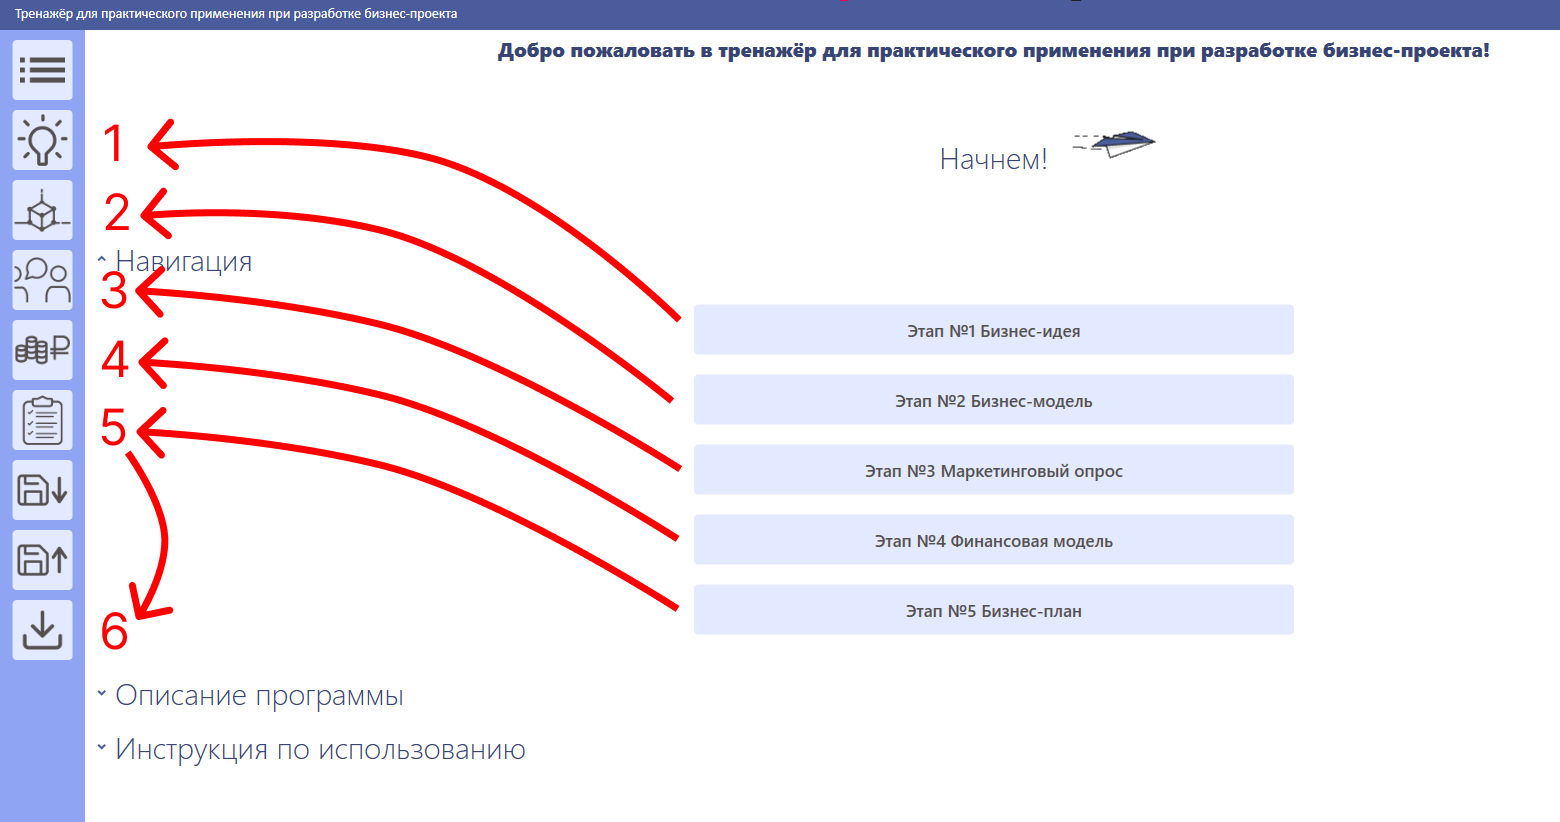
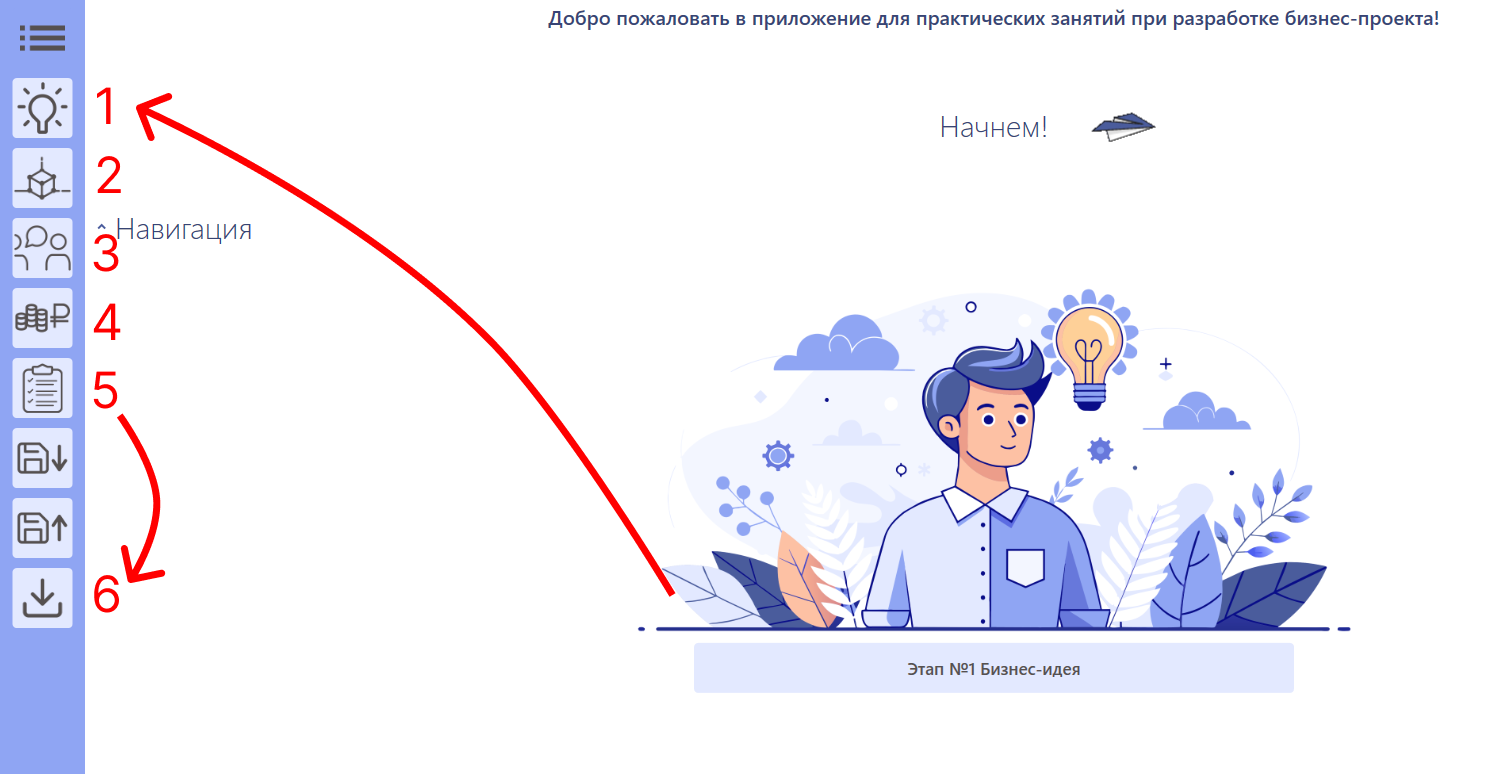
bye bye im leaving

diff --git a/Economy/Resources/Pages/Title.xaml b/Economy/Resources/Pages/Title.xaml
@@ -8,6 +8,7 @@
       xmlns:gif="http://wpfanimatedgif.codeplex.com"
       mc:Ignorable="d"
       Background="White"
+
       d:DesignWidth="800"
       d:Height="3000"
       Title="Title">
@@ -35,7 +36,7 @@
                        TextWrapping="Wrap"
                        TextAlignment="Center"
                        Text="Добро пожаловать в приложение для практических занятий при разработке бизнес-проекта!"
-                       FontWeight="ExtraBold"
+                       FontWeight="Medium"
                        HorizontalAlignment="Center"
                        Foreground="#FF374474">
             </TextBlock>
@@ -76,6 +77,9 @@
                                     Value="Light" />
                         </Style>
                     </StackPanel.Resources>
+                    <Image Source="/Resources/Images/robobro.png"  MaxWidth="800" RenderOptions.BitmapScalingMode="HighQuality"/>
+
+
                     <Button x:Name="ToChapter1"
                             Click="ToChapter1_Click"
                             Height="50"
@@ -92,6 +96,8 @@
                                        VerticalAlignment="Center" />
                         </StackPanel>
                     </Button>
+
+                    <Image Source="/Resources/Images/broinwarp.png"  MaxWidth="800" RenderOptions.BitmapScalingMode="HighQuality" Margin="0,70,0,0"/>
                     <Button x:Name="ToChapter2"
                             Click="ToChapter2_Click"
                             Height="50"
@@ -108,6 +114,7 @@
                                        VerticalAlignment="Center" />
                         </StackPanel>
                     </Button>
+                    <Image Source="/Resources/Images/broinhospital.png"  MaxWidth="800" RenderOptions.BitmapScalingMode="HighQuality" Margin="0,70,0,0"/>
                     <Button x:Name="ToChapter3"
                             Click="ToChapter3_Click"
                             Height="50"
@@ -125,6 +132,7 @@
                         </StackPanel>
                     </Button>
 
+                    <Image Source="/Resources/Images/brothinking.png"  MaxWidth="800" RenderOptions.BitmapScalingMode="HighQuality" Margin="0,70,0,0"/>
                     <Button x:Name="ToChapter4"
                             Click="ToChapter4_Click"
                             Height="50"
@@ -141,7 +149,7 @@
                                        VerticalAlignment="Center" />
                         </StackPanel>
                     </Button>
-
+                    <Image Source="/Resources/Images/broareyouok.png"  MaxWidth="800" RenderOptions.BitmapScalingMode="HighQuality" Margin="0,70,0,0"/>
                     <Button x:Name="ToChapter5"
                             Click="ToChapter5_Click"
                             Height="50"
@@ -163,7 +171,7 @@
 
             <Expander Style="{DynamicResource UberExpander}"
                       Margin="5"
-                      Header="Описание программы"
+                      Header="Описание приложения"
                       FontSize="30"
                       FontWeight="Light">
                 <StackPanel>
@@ -186,7 +194,7 @@
                                TextWrapping="Wrap">
                     </TextBlock>
                     <Image Width="500"
-                           Source="/Resources/Images/MeMchik2025.png"
+                           Source="/Resources/Images/whatahell.png"
                            Margin="10">
                     </Image>
                     <TextBlock Margin="10,0,10,0"
@@ -254,12 +262,14 @@
                         <Image Source="/Resources/Images/Manual2.png" />
                     </Border>
 
-                    <TextBlock Text="   Вы можете сохранить введенные данные в программе, чтобы потом продолжить работу с места, на котором Вы остановились. Для этого воспользуйтесь кнопками, показаными на рисунке." />
+                    <TextBlock Text="   Вы можете сохранить введенные данные в программе, чтобы потом продолжить работу с места, на котором Вы остановились. Для этого, нажмите на кнопку сохранения и выберите папку, в которой будет находиться файл сохранения. Когда потребуется продолжить работу, нажмите на кнопку загрузки данных и выберите созданный ранее файл." />
                     <Border Margin="15"
                             BorderBrush="red"
                             BorderThickness="3">
-                        <Image Source="/Resources/Images/Manual3.png" />
+                       <Image Source="/Resources/Images/Manual3.png" />
+
                     </Border>
+                    <TextBlock Text="   В случае необходимости каких-либо разделов, таблиц, графиков, все эти данные можно ввести в Word-документ, после экспорта." />
                 </StackPanel>
             </Expander>
         </StackPanel>

diff --git a/Economy/Resources/Pages/DevInfo.xaml b/Economy/Resources/Pages/DevInfo.xaml
@@ -12,9 +12,22 @@
 
     <Grid>
         <StackPanel Margin="10">
-            <Image Width="100"
-                   Source="/Resources/Images/ukrtbPrikol.png"
+            <DockPanel HorizontalAlignment="Center">
+            <Image Width="34"
+                   Margin="15"
+                   HorizontalAlignment="Left"
+                   Source="/Resources/Images/ukrtbMyaso.png"
                    RenderOptions.BitmapScalingMode="HighQuality" />
+                <TextBlock FontSize="18"
+                           Height="45"
+                           FontWeight="Medium"
+                           Foreground="#4A5C9C"
+                           TextAlignment="Center"
+                           TextWrapping="Wrap"
+                           Text="УФИМСКИЙ КОЛЛЕДЖ РАДИОЭЛЕКТРОНИКИ ТЕЛЕКОММУНИКАЦИИ И БЕЗОПАСНОСТИ">
+                    
+                </TextBlock>
+            </DockPanel>
             <TextBlock FontSize="20"
                        FontWeight="Light"
                        Text="    Программа реализована студентами Уфимского колледжа радиоэлектроники, телекоммуникации и безопасности, обучающимися по специальности информационные системы и программирование."

diff --git a/Economy/CustomUIDictionary.xaml b/Economy/CustomUIDictionary.xaml
@@ -90,7 +90,7 @@
         </Style.Triggers>
     </Style>
     
-    
+  
     
     
     <SolidColorBrush x:Key="Expander.Disabled.Arrow.Stroke" Color="#FF707070"/>
@@ -115,7 +115,7 @@
                                 <ColumnDefinition Width="19"/>
                                 <ColumnDefinition Width="*"/>
                             </Grid.ColumnDefinitions>
-                            <Ellipse x:Name="circle" Fill="{StaticResource Expander.Static.Circle.Fill}" HorizontalAlignment="Center" Height="19" Stroke="Transparent" VerticalAlignment="Center" Width="19"/>
+                            <Ellipse x:Name="circle" Fill="Transparent" HorizontalAlignment="Center" Height="19" Stroke="Transparent" VerticalAlignment="Center" Width="19"/>
                             <Path x:Name="arrow" Data="M 1,1.5 L 4.5,5 L 8,1.5" HorizontalAlignment="Center" Stroke="{StaticResource Expander.Static.Arrow.Stroke}" SnapsToDevicePixels="false" StrokeThickness="2" VerticalAlignment="Center"/>
                             <ContentPresenter Grid.Column="1" HorizontalAlignment="Left" Margin="4,0,0,0" RecognizesAccessKey="True" SnapsToDevicePixels="True" VerticalAlignment="Center"/>
                         </Grid>

diff --git a/Economy/MainWindow.xaml b/Economy/MainWindow.xaml
@@ -339,7 +339,7 @@
             </Frame>
         </ScrollViewer>
         <DockPanel x:Name="TitleBar" VerticalAlignment="Top" Background="Transparent" LastChildFill="False" MouseDown="TitleBar_MouseDown"  Grid.Row="1" Grid.Column="1" Grid.ColumnSpan="2" >
-            <Label Content="Тренажёр для практического применения при разработке бизнес-проекта" Margin="10,0,0,0"  FontWeight="Medium" FontStretch="ExtraExpanded" Foreground="White" FontFamily="Calibri" FontSize="14"/>
+            <Label Content="Приложение для практических занятий при разработке бизнес проекта" Margin="10,0,0,0"  FontWeight="Medium" FontStretch="ExtraExpanded" Foreground="White" FontFamily="Calibri" FontSize="14"/>
 
             <Button  x:Name="Close" Style= "{StaticResource TitleBarBut}" DockPanel.Dock="Right" Click="Close_Click" Width="50" Height="30" Background="Transparent" BorderBrush="Transparent">
                 <Image Source="/Resources/Images/close.png" Width="13" />
